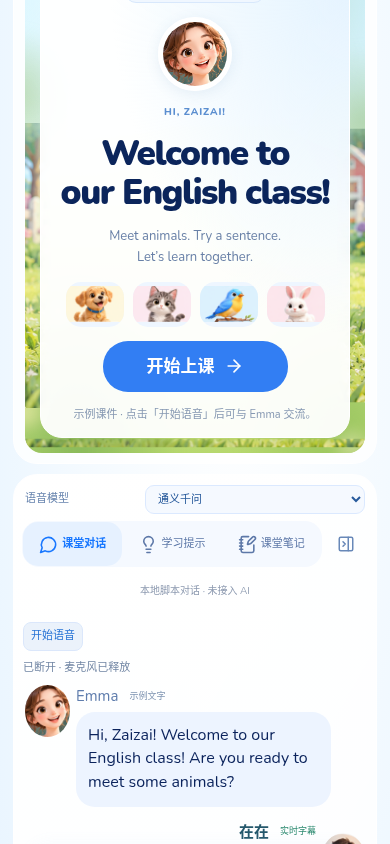
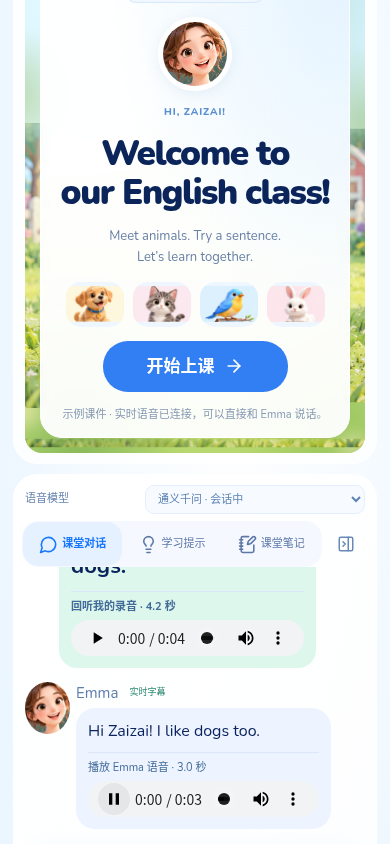
fix: wait for service readiness before enabling voice input

diff --git a/src/hooks/useRealtimeVoice.ts b/src/hooks/useRealtimeVoice.ts
@@ -55,6 +55,7 @@ export function useRealtimeVoice({
   const [selected, setSelected] = useState<ProviderId>(initialModel);
   const [base] = useState(initialBackend);
   const [providers, setProviders] = useState(defaultProviders);
+  const [loading, setLoading] = useState(true);
   const [status, setStatus] = useState<
     "disconnected" | "connecting" | "connected" | "error"
   >("disconnected");
@@ -109,6 +110,8 @@ export function useRealtimeVoice({
     } catch {
       if (expected !== generation.current) return;
       setProviders(defaultProviders);
+    } finally {
+      if (expected === generation.current) setLoading(false);
     }
   }
   useEffect(() => {
@@ -307,7 +310,7 @@ export function useRealtimeVoice({
     setLiveSubtitle("");
   }
   async function connect() {
-    if (busy.current || locked) return;
+    if (busy.current || locked || loading) return;
     if (!selectedProvider.configured || !selectedProvider.implemented) {
       setStatus("error");
       setMessage("未配置：所选语音暂未开放，请选择其他模型。");
@@ -443,6 +446,7 @@ export function useRealtimeVoice({
     selected,
     select,
     providers,
+    loading,
     selectedProvider,
     base,
     status,

diff --git a/tests/voice-replay.spec.ts b/tests/voice-replay.spec.ts
@@ -314,3 +314,24 @@ test("existing deployed relay without audio item IDs still attaches real audio t
   await expect(teacher.getByLabel("Emma语音回听")).toHaveCount(1);
   await page.getByRole("button", { name: "断开语音", exact: true }).click();
 });
+
+test("start stays disabled until a slow service catalog has actually loaded", async ({
+  page,
+}) => {
+  await page.route("**/api/voice/config", async (r) => {
+    await new Promise((resolve) => setTimeout(resolve, 1000));
+    await r.fulfill({
+      json: { providers: [{ id: "qwen", configured: true }] },
+    });
+  });
+  await page.route("**/api/voice/session", (r) =>
+    r.fulfill({ status: 401, json: { error: "当前设备尚未授权。" } }),
+  );
+  await page.goto("/");
+  await expect(
+    page.getByRole("button", { name: "正在准备语音…", exact: true }),
+  ).toBeDisabled();
+  await expect(
+    page.getByRole("button", { name: "开始语音", exact: true }),
+  ).toBeEnabled();
+});

diff --git a/src/components/ConversationPanel.tsx b/src/components/ConversationPanel.tsx
@@ -167,10 +167,14 @@ export function ConversationPanel({
                 </>
               ) : (
                 <button
-                  disabled={voiceBlocked || realtime.locked}
+                  disabled={voiceBlocked || realtime.locked || realtime.loading}
                   onClick={() => void realtime.connect()}
                 >
-                  {realtime.status === "error" ? "重新连接" : "开始语音"}
+                  {realtime.loading
+                    ? "正在准备语音…"
+                    : realtime.status === "error"
+                      ? "重新连接"
+                      : "开始语音"}
                 </button>
               )}
             </div>

diff --git a/VOICE_REPLAY_FIX.md b/VOICE_REPLAY_FIX.md
@@ -9,7 +9,7 @@
 - 语音会话输入框显示“语音会话中，请直接说话”，准备页根据真实连接状态显示文案。
 - 录音只作当前页面临时缓存，不写localStorage/sessionStorage、不另行上传录音文件；实时语音数据仍按既有通话流程发给语音服务。每个用户话段最多30秒、Emma片段最多50秒；缓存最多20段、约12MiB，较旧片段会释放。刷新、重置、关闭页面清除；课堂退出保留本页内容以便重进。
 
-验证：生产构建通过；完整课堂65项浏览器回归通过；随后补充系统暂停恢复与既有后端兼容场景，回听专项7项通过；后端14项通过。真实Chromium检查WAV头、16kHz输入、音频解码时长、点击原生播放器后currentTime推进、暂停收音、恢复收音和重置清除。输入使用合成设备/测试音频，不等于用户手机实机验证。
+验证：生产构建通过；完整课堂65项浏览器回归通过；随后补充系统暂停恢复与既有后端兼容场景，回听专项8项通过；后端14项通过。真实Chromium检查WAV头、16kHz输入、音频解码时长、点击原生播放器后currentTime推进、暂停收音、恢复收音和重置清除。输入使用合成设备/测试音频，不等于用户手机实机验证。
 
 截图：[手机](screenshots/voice-replay/replay-390.png)、[桌面](screenshots/voice-replay/replay-1536.png)。截图使用显式协议夹具，不证明截图内文字来自真实模型；线上仅以百炼实际回复生成音频与字幕。
 
@@ -20,3 +20,6 @@
 完整链路额外验证：真实Chromium使用合成英文WAV作为测试麦克风，经过原生采样率AudioWorklet、当前已部署Render后端及真实百炼服务后，识别为 `Hello, Emma. I like dogs.`，本人的WAV片段可解码且为3.2秒；百炼返回 `That is wonderful. Do you have a favorite kind of dog?` 的4.16秒真实语音，浏览器点击后currentTime推进、处于播放状态，无脚本错误。云端Chromium证书限制下，网络部分使用保持正常TLS验证的Node中转连接实际后端，没有关闭TLS验证，也没有使用模型回复夹具。截图 [真实服务浏览器回听](screenshots/voice-replay/real-service-mobile.png)。这仍是合成输入和浏览器验证，不是用户手机硬件实测。
 
 已发布的前端代码提交 `b416ac9`，兼容当前 `508c092` 旧后端。后续此处仅补充验证记录与截图，不改变前端构建。
+
+
+后续复测：实际浏览器链路再次得到可解码的4.2秒本机测试录音和可播放的3.04秒百炼回复，截图更新为播放器正在播放的状态。回复是模型生成，文本不固定。另修复服务目录尚未返回时过早点“开始语音”会误报未配置的问题：准备完成前按钮禁用并显示准备状态；语音11项回归及回听8项检查均通过。
